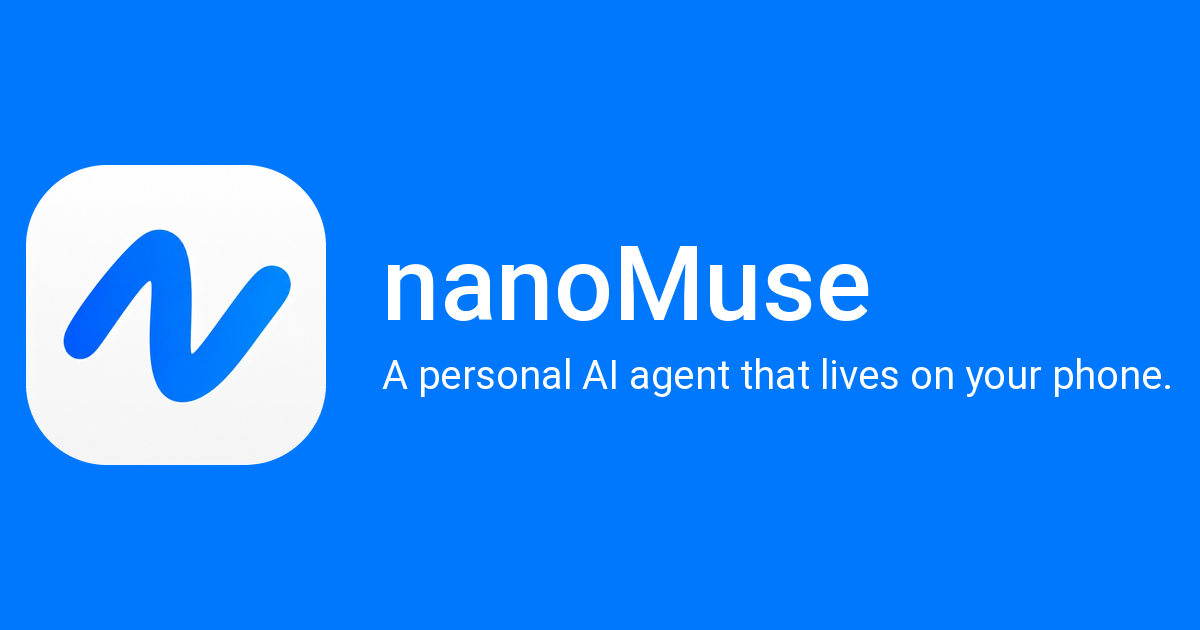
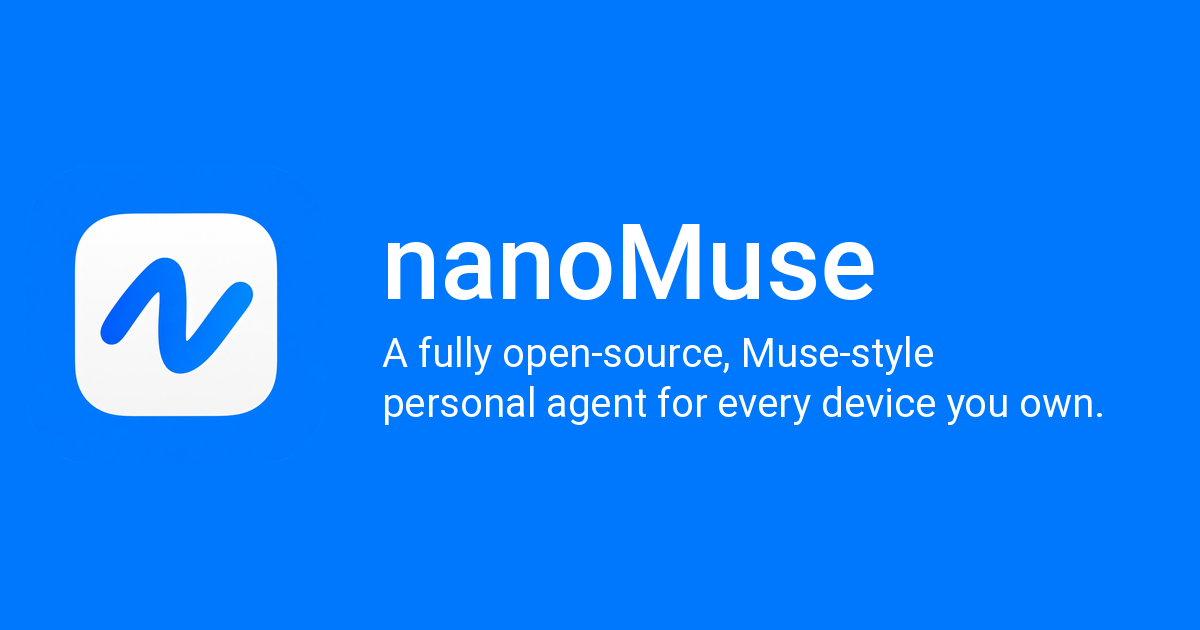
Site: the tagline, natural Chinese, no "rebuilt screen by screen"
meta description / og:description and the lede carry "a fully
open-source, Muse-style personal agent for every device you own"; the
social card is redrawn with the same sentence. The pillar card and the
version lines no longer describe the app as Muse rebuilt; the Chinese
copy is rewritten to read naturally.

Changed region(s): [[0.0, 0.2413, 0.2775, 0.754], [0.3083, 0.5429, 0.9867, 0.6635], [0.3083, 0.3317, 0.74, 0.5127]]

diff --git a/index.html b/index.html
@@ -4,9 +4,9 @@
     <meta charset="utf-8" />
     <meta name="viewport" content="width=device-width, initial-scale=1" />
     <title>nanoMuse — one agent for every device you own</title>
-    <meta name="description" content="nanoMuse is a fully open-source personal AI agent in the shape of Meta Muse, for every device you own. Today it runs entirely on your Android phone with your own model: a shell, a browser, MCP, skills, goals on a schedule, a feed written for you, and a stop before anything you could not undo. Next: the phone's screen as a hand, then the phone drives your PC." />
+    <meta name="description" content="nanoMuse is a fully open-source, Muse-style personal agent for every device you own. Today it runs entirely on your Android phone with your own model: a shell, a browser, MCP, skills, goals on a schedule, a feed written for you, and a stop before anything you could not undo. Next: the phone's screen as a hand, then the phone drives your PC." />
     <meta property="og:title" content="nanoMuse — one agent for every device you own" />
-    <meta property="og:description" content="Fully open source, in the shape of Meta Muse, on hardware you own. Android today." />
+    <meta property="og:description" content="A fully open-source, Muse-style personal agent for every device you own. Android today." />
     <meta property="og:image" content="https://nano-muse.github.io/assets/social-card.png" />
     <meta property="og:image:width" content="1200" />
     <meta property="og:image:height" content="630" />
@@ -40,7 +40,7 @@
       <section class="hero">
         <p class="eyebrow">
           <i class="en">Fully open source · GPL-3.0 · Android today</i>
-          <i class="zh">完全开源 · GPL-3.0 · 今天是 Android</i>
+          <i class="zh">完全开源 · GPL-3.0 · 目前 Android 版</i>
         </p>
         <h1>
           <i class="en">One agent,<br />every device you own.</i>
@@ -48,16 +48,16 @@
         </h1>
         <p class="lede">
           <i class="en">
-            nanoMuse is a personal AI agent in the shape of Meta's Muse, built as free software. One agent with a
-            name and a face: it does things instead of answering questions, keeps working while the app is closed,
-            remembers you, and stops to ask before anything you could not undo. Today the whole agent runs on your
-            Android phone with a model you bring; next it gets hands for the apps that have no API, then it reaches
-            your computer, and every device after that.
+            nanoMuse is a fully open-source, Muse-style personal agent: one agent with a name and a face that does
+            things instead of answering questions, keeps working while the app is closed, remembers you, and stops
+            to ask before anything you could not undo. Today the whole agent runs on your Android phone with a model
+            you bring; next it gets hands for the apps that have no API, then it reaches your computer, and every
+            device after that.
           </i>
           <i class="zh">
-            nanoMuse 是一个 Muse 形状的个人 AI 智能体，以自由软件的方式做出来。一个有名字、有脸的智能体：它做事而不是只回答，App
-            关掉了也继续干活，记得你，遇到无法撤销的操作先停下来问你。今天整个智能体跑在你的 Android 手机上，模型由你带；接下来它会长出一双能碰没有 API
-            的 App 的手，然后伸到你的电脑，再之后是你的每一台设备。
+            nanoMuse 是一个完全开源、Muse 风格的个人智能体：有名字、有脸，不只回答问题，而是动手做事；App
+            关掉了也继续干活；记得你；遇到无法撤销的操作会先停下来问你。目前整个智能体跑在你的 Android 手机上，模型由你自己带；接下来它会长出一双手，去碰那些没有
+            API 的 App，然后伸到你的电脑，再之后是你的每一台设备。
           </i>
         </p>
         <div class="cta">
@@ -105,23 +105,23 @@
         <h2><i class="en">Why nanoMuse</i><i class="zh">为什么是 nanoMuse</i></h2>
         <p class="sub">
           <i class="en">Four things define the project. Two are in the app today; two are the next versions.</i>
-          <i class="zh">四件事定义这个项目。两件今天已经在 App 里，两件是接下来的版本。</i>
+          <i class="zh">这个项目由四件事定义：两件已经在 App 里，两件是接下来的版本。</i>
         </p>
         <ul>
           <li>
-            <span class="status now"><i class="en">today</i><i class="zh">今天</i></span>
-            <h3><i class="en">Muse's shape</i><i class="zh">Muse 的形</i></h3>
+            <span class="status now"><i class="en">today</i><i class="zh">已有</i></span>
+            <h3><i class="en">Muse-style</i><i class="zh">Muse 风格</i></h3>
             <p>
-              <i class="en">One agent, not a toolbox: a name and a face, a first conversation, a feed written for you, goals worked on in the background, memory you can edit, an approval before anything you could not undo. The product Meta shipped, rebuilt screen by screen.</i>
-              <i class="zh">一个智能体，不是一箱工具：名字和脸、第一次对话、写给你的动态、后台推进的目标、能改的记忆、无法撤销的操作前先审批。Meta 发布的那个产品，一屏一屏重做出来。</i>
+              <i class="en">One agent, not a toolbox: a name and a face, a first conversation, a feed written for you, goals worked on in the background, memory you can edit, an approval before anything you could not undo.</i>
+              <i class="zh">一个智能体，而不是一堆工具：有名字、有脸，第一次见面先聊一聊，每天有写给你的动态，目标在后台持续推进，记忆能看也能改，无法撤销的操作前先问你。</i>
             </p>
           </li>
           <li>
-            <span class="status now"><i class="en">today</i><i class="zh">今天</i></span>
+            <span class="status now"><i class="en">today</i><i class="zh">已有</i></span>
             <h3><i class="en">Fully open</i><i class="zh">完全开源</i></h3>
             <p>
               <i class="en">GPL-3.0-or-later, the whole repository. No closed component, no account, no server you have to trust, no model you have to use. Muse, 豆包 and 千问 are products you are given; nanoMuse is one you own.</i>
-              <i class="zh">GPL-3.0-or-later，整个仓库。没有闭源组件，不用注册，没有必须信任的服务器，没有必须用的模型。Muse、豆包、千问是给你用的产品；nanoMuse 是你自己拥有的。</i>
+              <i class="zh">整个仓库 GPL-3.0-or-later。没有闭源组件，不用注册账号，不用信任任何服务器，也不绑定任何模型。Muse、豆包、千问是别人给你用的产品；nanoMuse 是你自己拥有的。</i>
             </p>
           </li>
           <li>
@@ -129,7 +129,7 @@
             <h3><i class="en">Any app, API or not</i><i class="zh">通用：有没有 API 都能做</i></h3>
             <p>
               <i class="en">Most of a day in China runs through apps that never had an API. The agent tries a skill, a CLI, an MCP server or the browser first and, when you allow it, the device's own screen — looking and tapping the way you would — with the same approvals before paying, sending or deleting. Off by default.</i>
-              <i class="zh">国内的一天大多跑在从来没有 API 的 App 里。它先试技能、CLI、MCP 服务或浏览器，你允许时再用设备自己的屏幕——像你一样看和点——付款、发送、删除前的审批一样不少。默认关着。</i>
+              <i class="zh">国内日常用的 App，大多从来没有 API。它会先试技能、CLI、MCP 服务或浏览器；你允许之后，再直接操作设备屏幕，像你一样看、一样点——付款、发送、删除前照样要经你审批。默认关闭。</i>
             </p>
           </li>
           <li>
@@ -137,7 +137,7 @@
             <h3><i class="en">Every device</i><i class="zh">多端协同</i></h3>
             <p>
               <i class="en">One agent, and every device you own is a pair of hands and a front door: say it on the phone, it happens on your PC; say it to your glasses, it happens on both. The phone drives your computer first; a desktop app, iOS, the web on a machine of your own and glasses follow.</i>
-              <i class="zh">一个智能体，你的每台设备都是它的一双手和一个入口：在手机上说，事在电脑上办；对眼镜说，两边一起办。先是手机操作电脑；桌面 App、iOS、你自己机器上的网页版、眼镜跟着来。</i>
+              <i class="zh">一个智能体，你的每台设备都是它的一双手、一个入口：在手机上说一句，事情在电脑上办好；对眼镜说，两边一起办。先做手机操作电脑，之后是桌面 App、iOS、部署在你自己机器上的网页版，还有眼镜。</i>
             </p>
           </li>
         </ul>
@@ -150,35 +150,35 @@
             <h3><i class="en">Does things</i><i class="zh">动手做事</i></h3>
             <p>
               <i class="en">A Linux shell, a browser, MCP servers, skills, and — with the accessibility service on — the apps on your phone through their screens, using the accessibility CLI OpenMinis ships. It picks the hand the job needs.</i>
-              <i class="zh">Linux shell、浏览器、MCP、技能，以及——开了无障碍服务后——用 OpenMinis 自带的无障碍 CLI 通过屏幕操作手机上的 App。它自己挑合适的那只手。</i>
+              <i class="zh">Linux shell、浏览器、MCP、技能；开了无障碍服务后，还能用 OpenMinis 自带的无障碍 CLI，通过屏幕操作手机上的 App。用哪只手，它自己挑。</i>
             </p>
           </li>
           <li>
             <h3><i class="en">Asks first</i><i class="zh">关键处先问</i></h3>
             <p>
               <i class="en">A stop before deleting, sending or paying, scoped to once, this chat or always — per recipient, domain or folder. Passwords and codes are always yours to type.</i>
-              <i class="zh">删除、发送、付款前先停下：只此一次、本次对话或一直允许，按收件人、域名、目录记住。密码和验证码永远由你输入。</i>
+              <i class="zh">删除、发送、付款前先停下来问你：只允许这一次、这次对话，或者对这个收件人 / 域名 / 目录一直允许。密码和验证码永远由你自己输入。</i>
             </p>
           </li>
           <li>
             <h3><i class="en">Keeps going</i><i class="zh">一直在干</i></h3>
             <p>
               <i class="en">Goals checked on a schedule in their own conversation, routines that run while the app is closed, the screen kept awake when it drives the phone, and a "continue?" instead of an early wrap-up.</i>
-              <i class="zh">目标在自己的会话里按时检查，例程在 App 关着时照跑，操作手机时屏幕不灭，到步数上限问「继续？」而不是草草收尾。</i>
+              <i class="zh">目标在各自的会话里按时检查；例程在 App 关着时照样跑；操作手机时屏幕不会熄灭；到了步数上限会问你「继续？」，而不是草草收尾。</i>
             </p>
           </li>
           <li>
             <h3><i class="en">Writes you a feed</i><i class="zh">写给你的动态</i></h3>
             <p>
               <i class="en">Every morning, a few short posts from what it knows about you and what you asked it to follow. Steer it with one sentence.</i>
-              <i class="zh">每天早上几条短帖，来自它对你的了解和你让它盯的事。一句话就能调它的方向。</i>
+              <i class="zh">每天早上几条短帖，来自它对你的了解和你让它留意的事。说一句话就能调整方向。</i>
             </p>
           </li>
           <li>
             <h3><i class="en">Remembers you</i><i class="zh">记得你</i></h3>
             <p>
               <i class="en">Who it is, what it knows about you, what it remembers and when it wakes are four Markdown files you can read and edit. Bring what another assistant knew.</i>
-              <i class="zh">它是谁、知道你什么、记住了什么、什么时候醒，是四个你能看能改的 Markdown 文件。别的助手记住的你，可以直接带过来。</i>
+              <i class="zh">它是谁、了解你什么、记住了什么、什么时候醒来——四个 Markdown 文件，你都能看、能改。别的助手对你的记忆，也可以直接导进来。</i>
             </p>
           </li>
           <li>
@@ -205,14 +205,14 @@
             <h3><i class="en">Your model</i><i class="zh">你的模型</i></h3>
             <p>
               <i class="en">Any OpenAI-compatible endpoint, or the OAuth sign-ins the app ships with. Messages go only to the model you configured; the avatar is drawn by an image model on the same account.</i>
-              <i class="zh">任何 OpenAI 兼容的接口，或 App 自带的 OAuth 登录。消息只发给你配置的模型；形象也由同一账号下的图像模型来画。</i>
+              <i class="zh">任何 OpenAI 兼容接口，或者 App 自带的 OAuth 登录。消息只发给你配置的模型；形象也由你自己配的图像模型来画。</i>
             </p>
           </div>
           <div>
             <h3><i class="en">Open</i><i class="zh">开放</i></h3>
             <p>
               <i class="en">GPL-3.0-or-later, one small version at a time, each an installable APK with its notes. Not affiliated with Meta; Muse is a trademark of Meta Platforms, Inc.</i>
-              <i class="zh">GPL-3.0-or-later，按小版本逐个发布，每个都是能装的 APK 并附说明。与 Meta 无关；Muse 是 Meta Platforms, Inc. 的商标。</i>
+              <i class="zh">GPL-3.0-or-later；按小版本逐个发布，每个版本都是可安装的 APK，附更新说明。与 Meta 无关；Muse 是 Meta Platforms, Inc. 的商标。</i>
             </p>
           </div>
         </div>
@@ -221,8 +221,8 @@
       <section class="compare" id="compare">
         <h2><i class="en">Next to Muse and OpenMinis</i><i class="zh">和 Muse、OpenMinis 放在一起看</i></h2>
         <p class="sub">
-          <i class="en">Muse is the product this follows; <a href="https://github.com/OpenMinis/OpenMinis" rel="noopener">OpenMinis</a> is the on-device runtime the app is built on.</i>
-          <i class="zh">Muse 是它跟随的产品；<a href="https://github.com/OpenMinis/OpenMinis" rel="noopener">OpenMinis</a> 是 App 所基于的端侧运行时。</i>
+          <i class="en">Muse is the product it takes its style from; <a href="https://github.com/OpenMinis/OpenMinis" rel="noopener">OpenMinis</a> is the on-device runtime the app is built on.</i>
+          <i class="zh">Muse 是它的风格参照；<a href="https://github.com/OpenMinis/OpenMinis" rel="noopener">OpenMinis</a> 是 App 所基于的端侧运行时。</i>
         </p>
         <div class="table">
           <table>
@@ -234,31 +234,31 @@
                 <th><i class="en">Where the agent runs</i><i class="zh">智能体跑在哪</i></th>
                 <td><i class="en">Meta's cloud VM, one per user</i><i class="zh">Meta 的云端 VM，每人一台</i></td>
                 <td><i class="en">The phone it is installed on</i><i class="zh">装了它的那台手机</i></td>
-                <td><i class="en">The phone today; a computer of yours next; wherever you say, later</i><i class="zh">今天在手机上；下一步在你的电脑上；再之后你说在哪就在哪</i></td>
+                <td><i class="en">The phone today; a computer of yours next; wherever you say, later</i><i class="zh">目前在手机上；下一步到你的电脑上；再之后你说在哪就在哪</i></td>
               </tr>
               <tr>
                 <th><i class="en">Shape</i><i class="zh">形状</i></th>
                 <td><i class="en">One agent with a name and a face, a feed, goals, a Sentinel</i><i class="zh">一个有名字、有脸的智能体，动态、目标、Sentinel</i></td>
                 <td><i class="en">Sessions, tools and settings — a workbench</i><i class="zh">会话、工具、设置——一个工作台</i></td>
-                <td><i class="en">Muse's: one agent, a name and a face, a feed, goals on a schedule, memory you can edit</i><i class="zh">Muse 的：一个智能体，名字和脸、动态、按时检查的目标、能改的记忆</i></td>
+                <td><i class="en">One agent, a name and a face, a feed, goals on a schedule, memory you can edit</i><i class="zh">一个智能体：有名字和脸、动态、按时检查的目标、能改的记忆</i></td>
               </tr>
               <tr>
                 <th><i class="en">Before something irreversible</i><i class="zh">无法撤销的操作前</i></th>
                 <td><i class="en">The Sentinel model approves</i><i class="zh">Sentinel 模型审批</i></td>
                 <td><i class="en">Per-tool permissions</i><i class="zh">按工具授权</i></td>
-                <td><i class="en">A stop with scope: once, this chat, always for this recipient, domain or folder; passwords never typed by the agent</i><i class="zh">带范围的停：只此一次、本次对话、对这个收件人 / 域名 / 目录一直允许；密码从不由它输</i></td>
+                <td><i class="en">A stop with scope: once, this chat, always for this recipient, domain or folder; passwords never typed by the agent</i><i class="zh">停下来问你，并记住范围：只此一次、本次对话，或对这个收件人 / 域名 / 目录一直允许；密码从不由它输入</i></td>
               </tr>
               <tr>
                 <th><i class="en">Apps without an API</i><i class="zh">没有 API 的 App</i></th>
-                <td><i class="en">Out of reach — the VM never touches your phone</i><i class="zh">碰不到——VM 碰不到你的手机</i></td>
-                <td><i class="en">An accessibility CLI the model can call, on Android</i><i class="zh">Android 上一个模型可以调用的无障碍 CLI</i></td>
-                <td><i class="en">The screen as a hand: vision plus the accessibility tree, APIs tried first, you take over for logins, the same approvals — 0.1.12</i><i class="zh">屏幕当手：视觉加无障碍树、先试 API、登录由你接管、同一套审批——0.1.12</i></td>
+                <td><i class="en">Out of reach — the VM never touches your phone</i><i class="zh">碰不到——云端 VM 够不着你的手机</i></td>
+                <td><i class="en">An accessibility CLI the model can call, on Android</i><i class="zh">Android 上有一个模型可以调用的无障碍 CLI</i></td>
+                <td><i class="en">The screen as a hand: vision plus the accessibility tree, APIs tried first, you take over for logins, the same approvals — 0.1.12</i><i class="zh">把屏幕当手：视觉加无障碍树，先试 API，登录由你接管，同一套审批——0.1.12</i></td>
               </tr>
               <tr>
                 <th><i class="en">Other devices</i><i class="zh">其他设备</i></th>
-                <td><i class="en">Many clients of one VM; the VM does not touch your devices</i><i class="zh">多个客户端连一台 VM；VM 不碰你的设备</i></td>
+                <td><i class="en">Many clients of one VM; the VM does not touch your devices</i><i class="zh">多个客户端连同一台 VM；VM 不碰你的设备</i></td>
                 <td><i class="en">The one it is installed on</i><i class="zh">只有装了它的那一台</i></td>
-                <td><i class="en">One agent across your devices: the phone drives your PC first — 0.1.13 — then every device, both ways</i><i class="zh">一个智能体跨你的设备：先是手机操作电脑——0.1.13——再是所有设备、双向</i></td>
+                <td><i class="en">One agent across your devices: the phone drives your PC first — 0.1.13 — then every device, both ways</i><i class="zh">一个智能体，跨你的所有设备：先是手机操作电脑（0.1.13），之后所有设备双向互通</i></td>
               </tr>
               <tr>
                 <th><i class="en">Models</i><i class="zh">模型</i></th>
@@ -287,8 +287,8 @@
           <li><a href="https://github.com/nano-muse/nanoMuse/releases/tag/v0.1.5" rel="noopener">0.1.5</a><span class="name">Memory</span><span class="what"><i class="en">The feed, the system files, memory import, "continue?".</i><i class="zh">动态、系统文件、记忆导入、「继续？」。</i></span></li>
           <li><a href="https://github.com/nano-muse/nanoMuse/releases/tag/v0.1.6" rel="noopener">0.1.6</a><span class="name">Avatar</span><span class="what"><i class="en">A face you choose, posed and animated; motion everywhere.</i><i class="zh">你挑的脸，有姿势有动作；处处有动效。</i></span></li>
           <li><a href="https://github.com/nano-muse/nanoMuse/releases/tag/v0.1.7" rel="noopener">0.1.7</a><span class="name">Welcome</span><span class="what"><i class="en">The first run: a welcome screen with the three steps — provider, its models, meet the agent.</i><i class="zh">第一次运行：欢迎页带三步——服务商、它的模型、认识它。</i></span></li>
-          <li><a href="https://github.com/nano-muse/nanoMuse/releases/tag/v0.1.8" rel="noopener">0.1.8</a><span class="name">Polish</span><span class="what"><i class="en">The shell level with Muse's: type, the composer pill, only the name under the face, Muse's settings pages.</i><i class="zh">壳子对齐 Muse：字体排印、胶囊输入框、脸下只有名字、Muse 样式的设置页。</i></span></li>
-          <li><a href="https://github.com/nano-muse/nanoMuse/releases/tag/v0.1.9" rel="noopener">0.1.9</a><span class="name">Portrait</span><span class="what"><i class="en">The face, Muse's way: "change your avatar to…" in the chat, four takes, poses, a share card; the agent's page behind the face; five avatar sizes.</i><i class="zh">换脸照 Muse 的路：对话里说「把虚拟形象换成…」，四张候选、姿势、分享卡；点脸进它的资料页；形象大小五档。</i></span></li>
+          <li><a href="https://github.com/nano-muse/nanoMuse/releases/tag/v0.1.8" rel="noopener">0.1.8</a><span class="name">Polish</span><span class="what"><i class="en">The shell finished: the type scale, the composer pill, only the name under the face, the settings pages restyled to match.</i><i class="zh">外壳打磨：统一字体排印、胶囊输入框、脸下只留名字、设置页统一风格。</i></span></li>
+          <li><a href="https://github.com/nano-muse/nanoMuse/releases/tag/v0.1.9" rel="noopener">0.1.9</a><span class="name">Portrait</span><span class="what"><i class="en">Changing the face from the chat: "change your avatar to…", four takes, poses, a share card; the agent's page behind the face; five avatar sizes.</i><i class="zh">在对话里换脸：说一句「把虚拟形象换成…」，四张候选任选，配好姿势，还有分享卡；点脸进它的资料页；形象大小五档。</i></span></li>
           <li><a href="https://github.com/nano-muse/nanoMuse/releases/tag/v0.1.10" rel="noopener">0.1.10</a><span class="name">Motion</span><span class="what"><i class="en">The three models named — chat, image, video — in Settings and in what the agent knows; with a video model the face gets a looping clip per state; pictures and clips on request.</i><i class="zh">三个模型说清楚——对话、图像、视频——在设置里，也在它自己知道的事里；设了视频模型，每个状态一段循环短片；按需生图生视频。</i></span></li>
           <li class="current"><a href="https://github.com/nano-muse/nanoMuse/releases/tag/v0.1.11" rel="noopener">0.1.11</a><span class="name">Hatch</span><span class="what"><i class="en">The built-in dragon, stills and clips in the APK; the first conversation read by the chat model, its own names in your language; one Model Studio key for all three models, or a provider per model.</i><i class="zh">内置小龙，静态图和短片都在 APK 里；第一次对话由对话模型来读，给自己提的名字跟着你的语言；一把百炼 key 跑三个模型，或者每个模型各接一个平台。</i></span></li>
           <li class="next"><span class="ver">0.1.12</span><span class="name">Hands</span><span class="what"><i class="en">The phone's screen as a hand, as a working demo: look, tap, type and swipe in the apps that have no API; APIs first; a floating capsule with Stop; you take over for logins; the same approvals; off by default.</i><i class="zh">手机屏幕当手，先出能用的 demo：在没有 API 的 App 里看、点、打字、滑动；先试 API；带「停止」的悬浮胶囊；登录由你接管；同一套审批；默认关着。</i></span></li>
